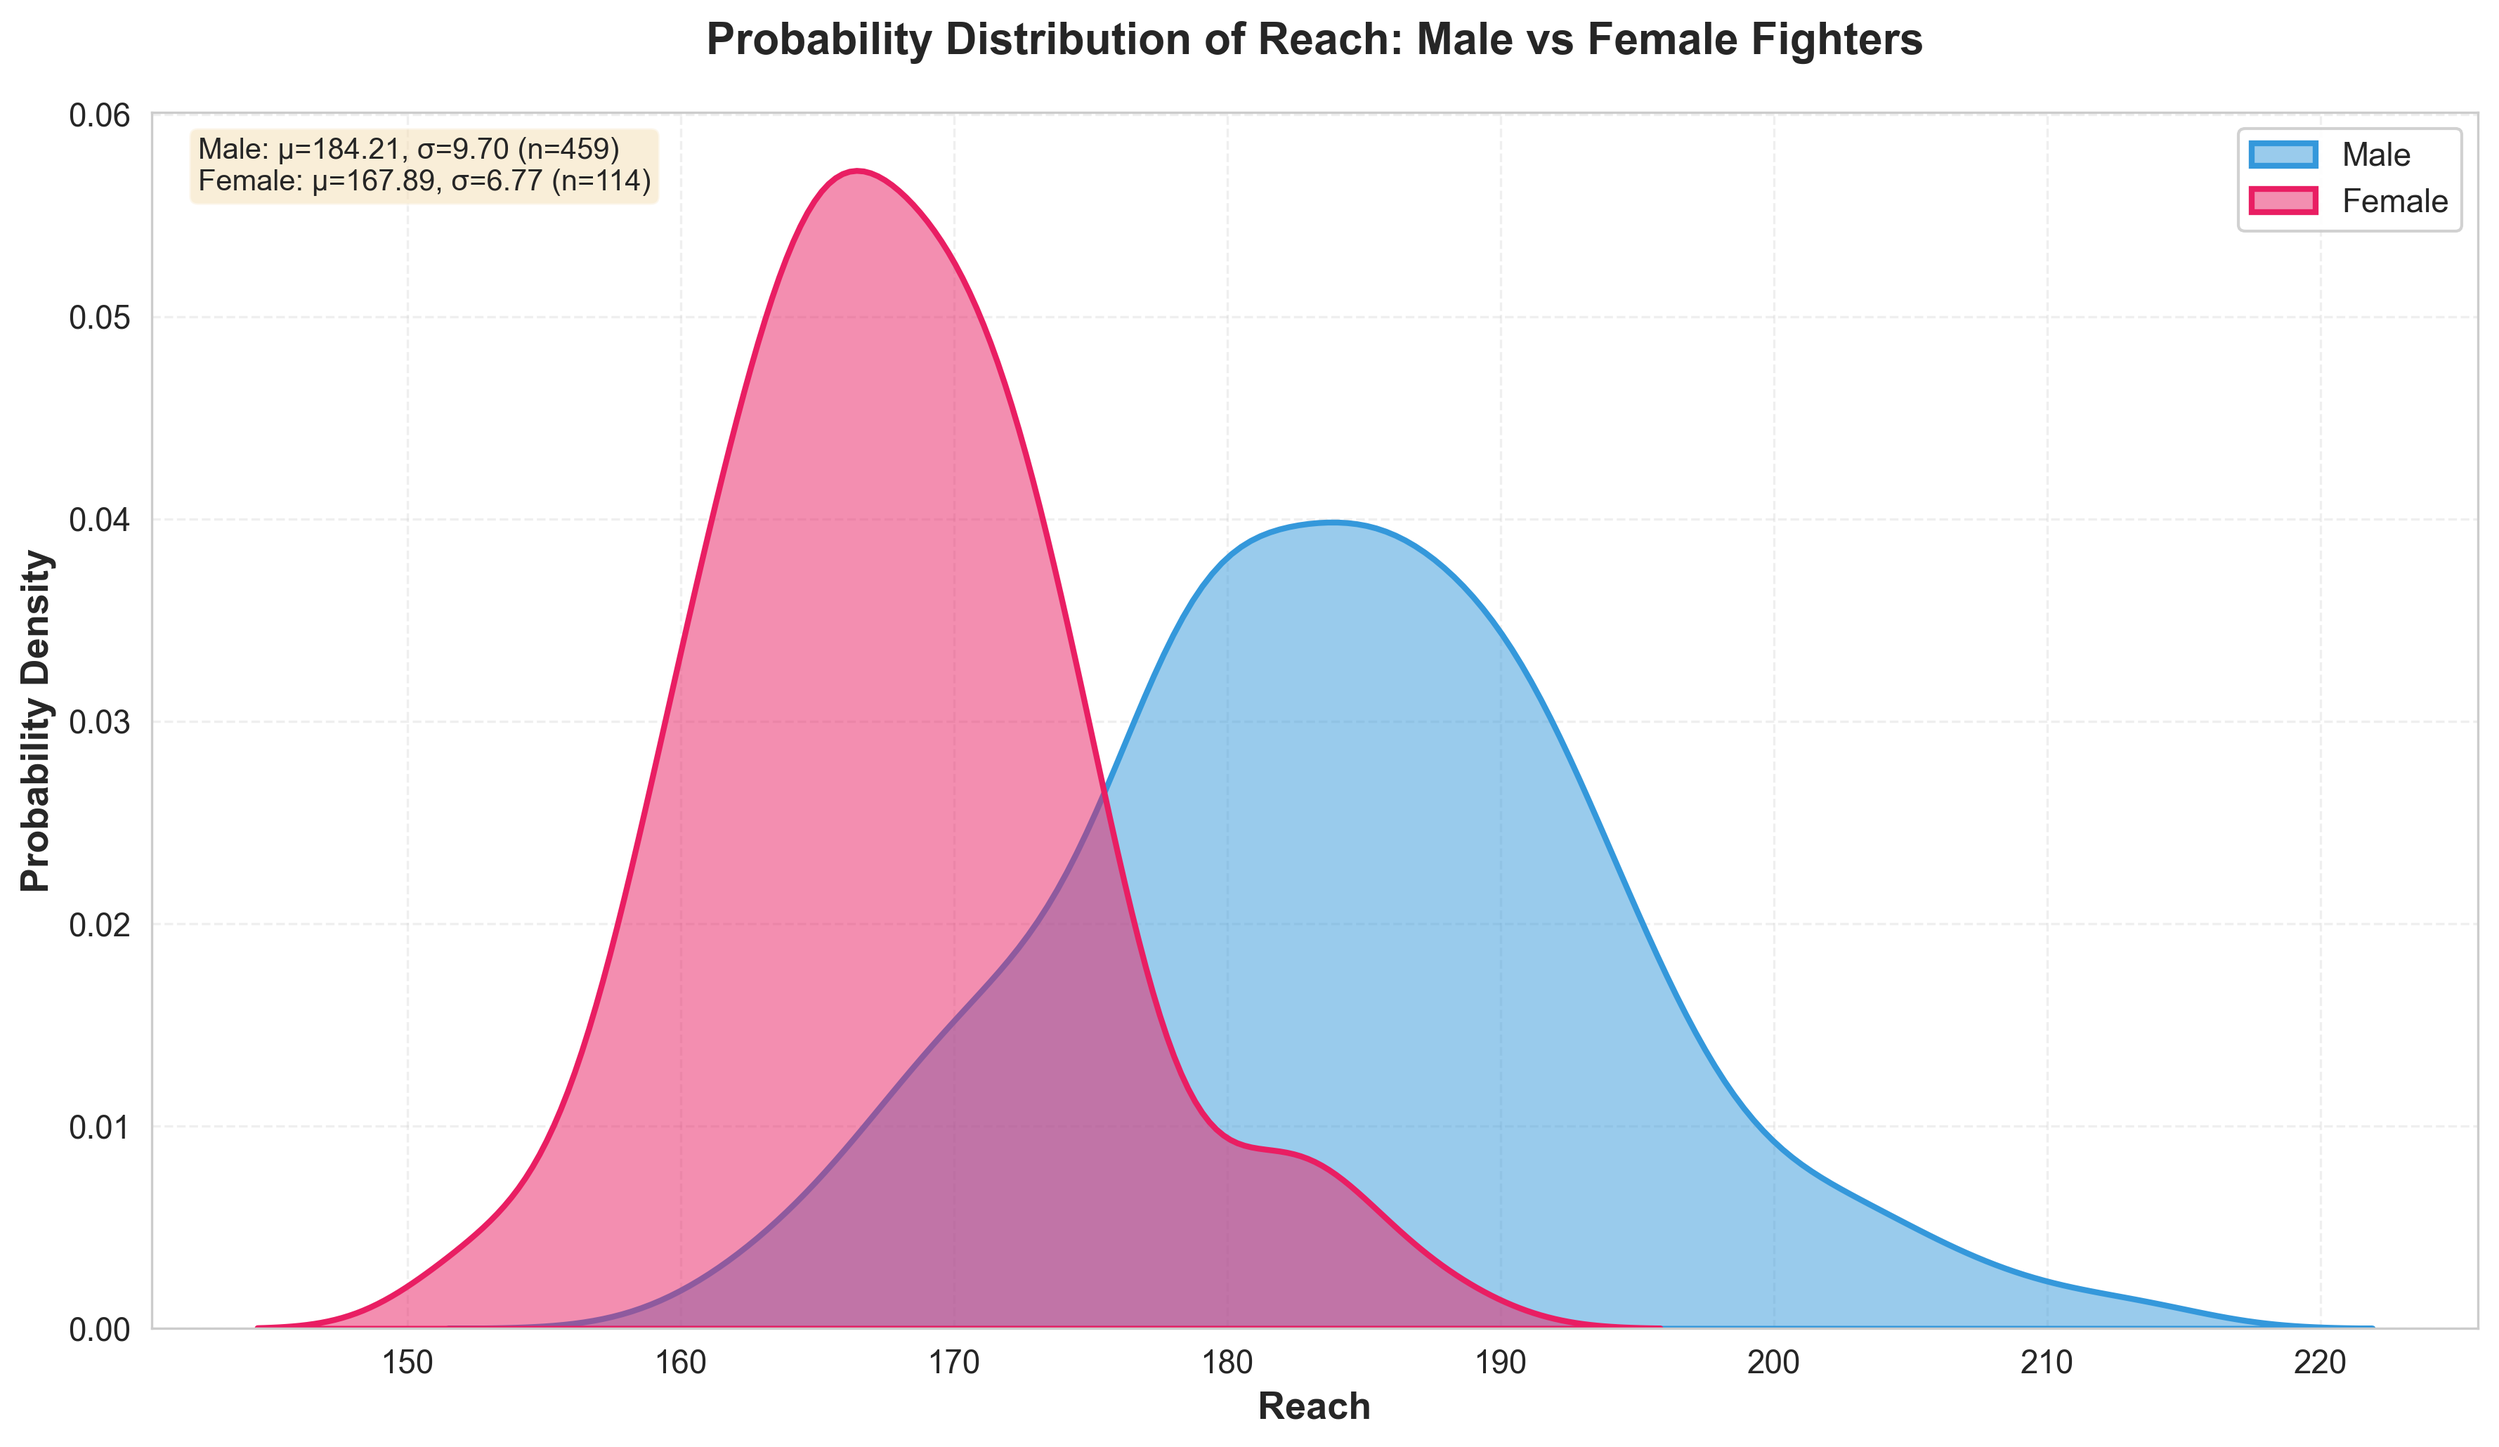
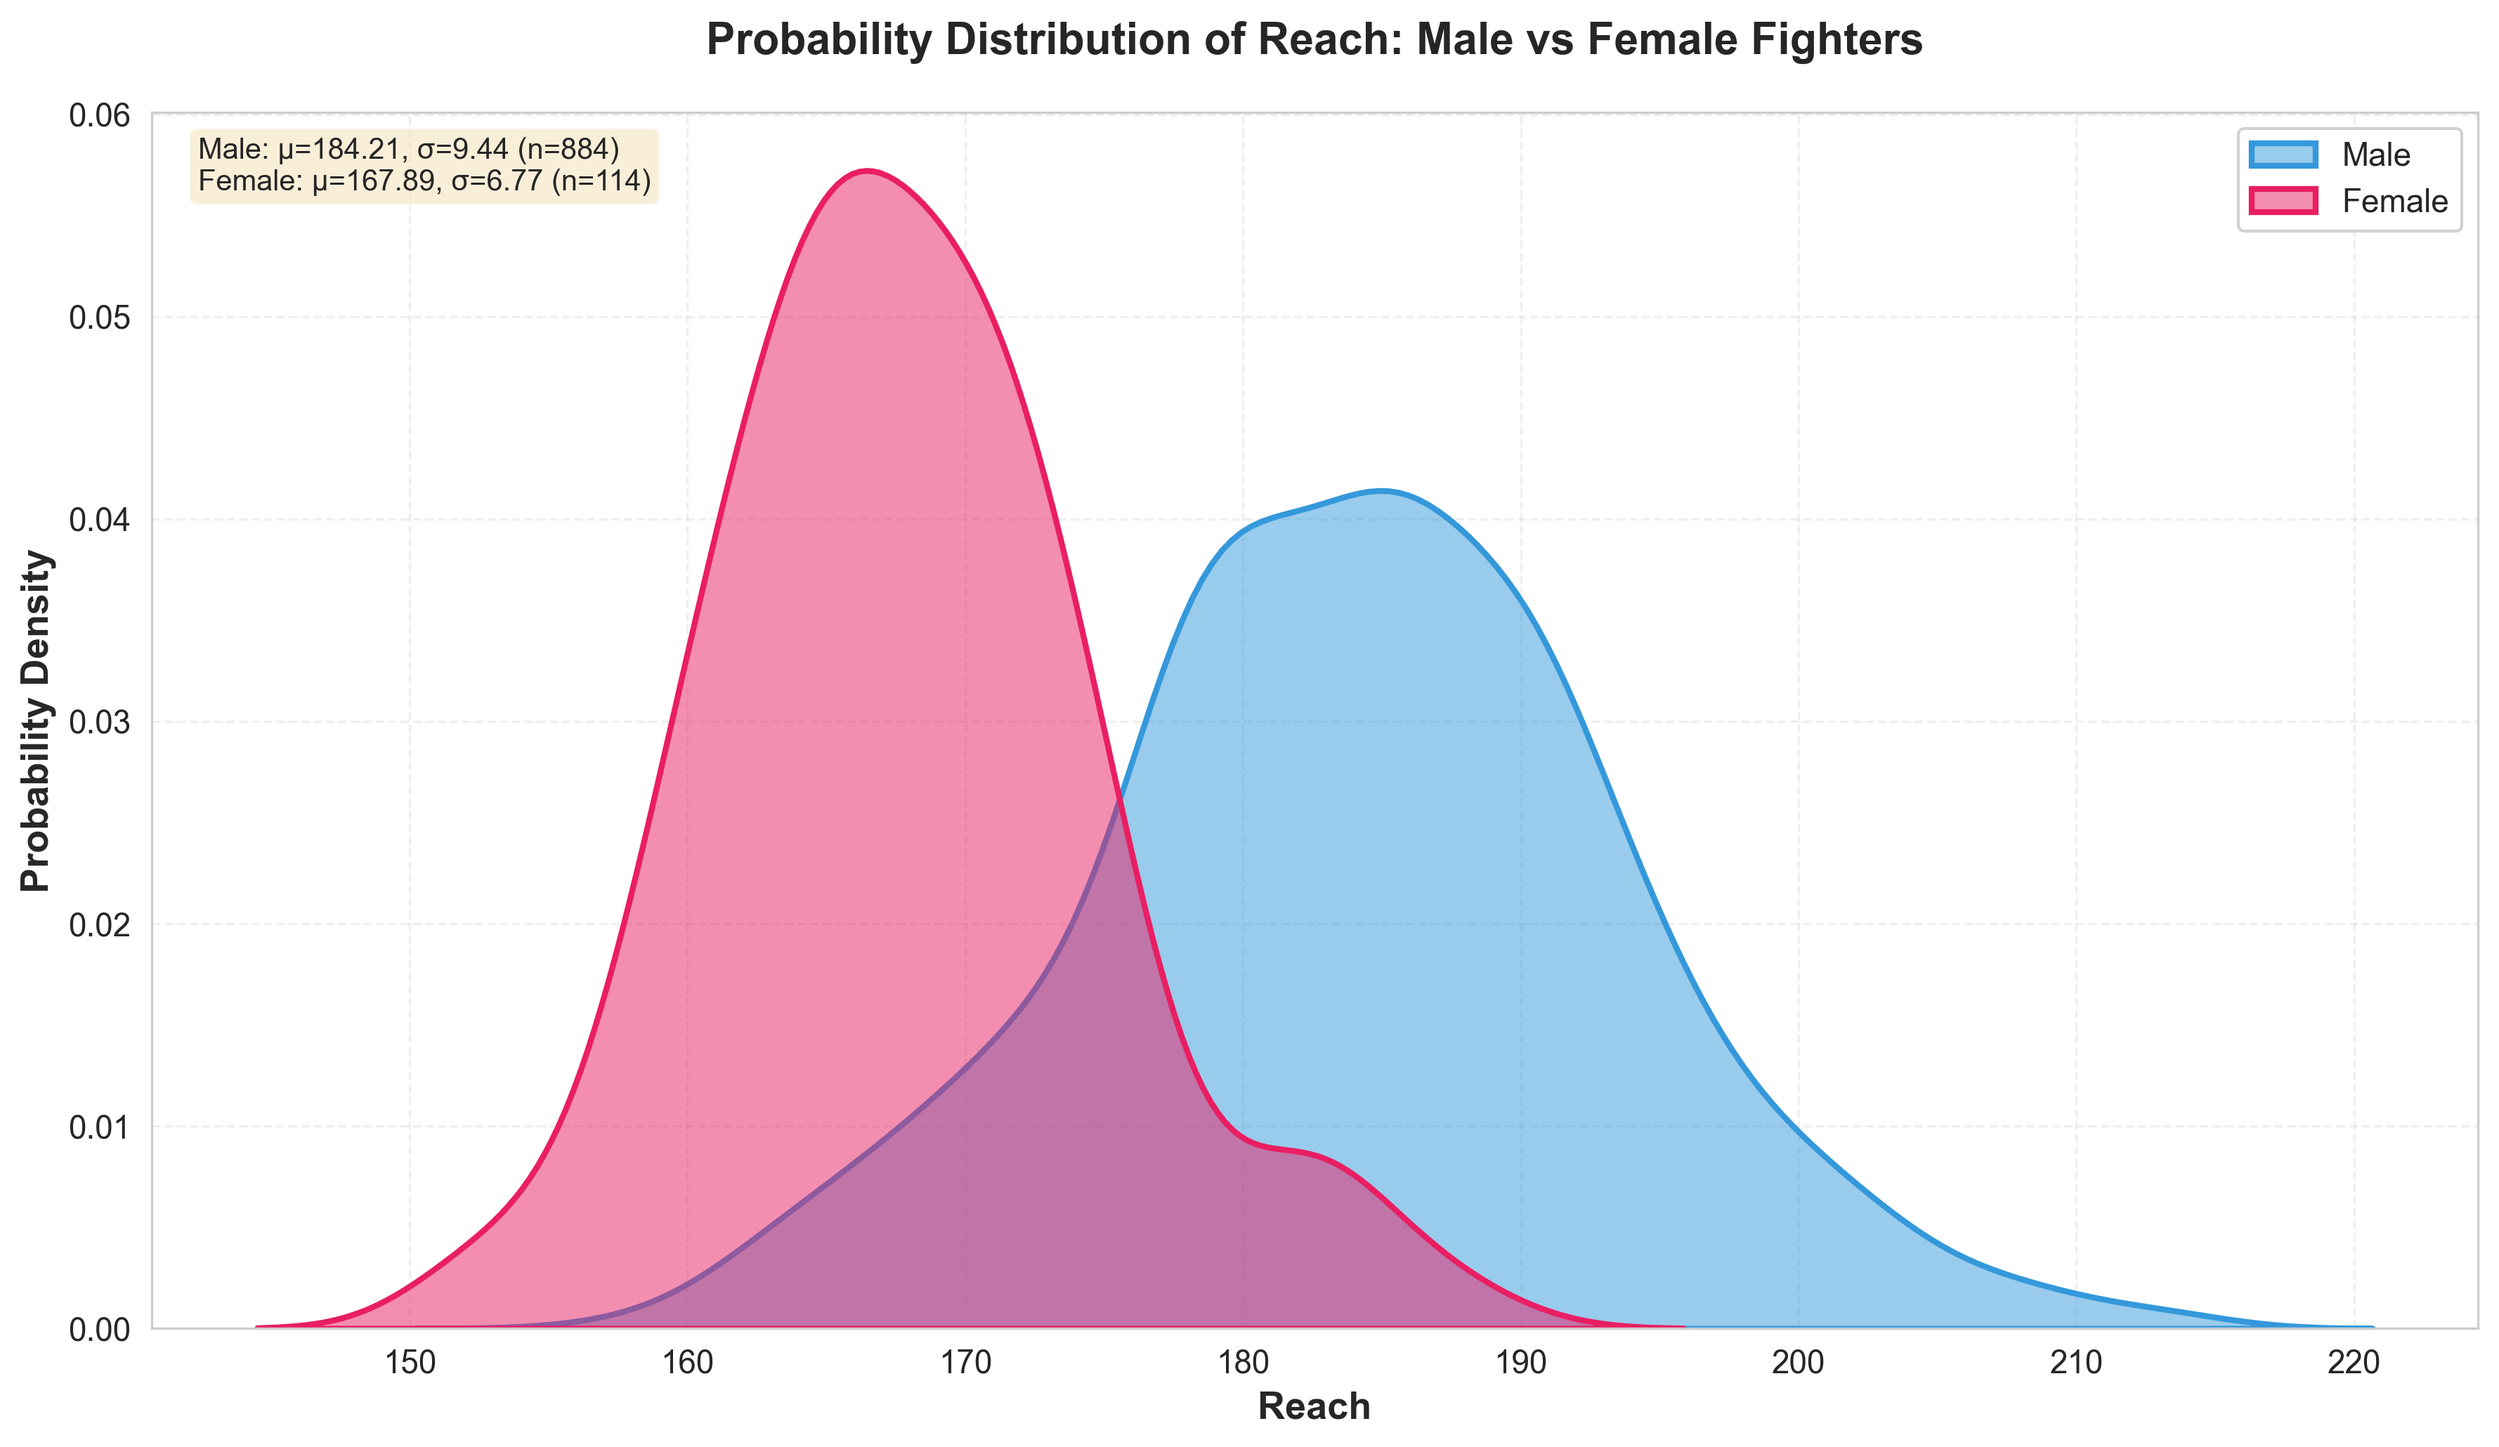
added more visualizations

diff --git a/visualizations.py b/visualizations.py
@@ -8,11 +8,13 @@ import matplotlib.pyplot as plt
 import seaborn as sns
 import numpy as np
 from pathlib import Path
+from sklearn.ensemble import RandomForestRegressor
+from sklearn.impute import SimpleImputer
 
 # Configuration
 DATA_FILE = Path("data/fighter_stats_with_gender.csv")
 PLOTS_DIR = Path("plots")
-MAX_FIGHTERS = 500  # Maximum number of fighters to include per gender (top by wins)
+MAX_FIGHTERS = 1000  # Maximum number of fighters to include per gender (top by wins)
 
 # Features to plot
 FEATURES = ['height', 'weight', 'reach', 'age']
@@ -109,6 +111,151 @@ def create_distribution_plot(male_df, female_df, feature, output_path):
     plt.savefig(output_path, dpi=300, bbox_inches='tight')
     print(f"Saved plot: {output_path}")
     plt.close()
+def get_numeric_features(df):
+    """
+    Get list of numeric feature columns (excluding name, gender, stance, and outcome variables wins/losses).
+    
+    Args:
+        df: DataFrame with fighter data
+        
+    Returns:
+        list: List of numeric feature column names
+    """
+    # Exclude non-numeric, outcome variables (wins, losses), and identifiers
+    exclude_cols = ['name', 'gender', 'stance', 'wins', 'losses']
+    numeric_features = [col for col in df.columns 
+                       if col not in exclude_cols and pd.api.types.is_numeric_dtype(df[col])]
+    return numeric_features
+
+
+def create_correlation_heatmap(df, gender, output_path):
+    """
+    Create a correlation matrix heatmap showing correlations between all features.
+    
+    Args:
+        df: DataFrame with fighter data (already filtered by gender)
+        gender: String 'Male' or 'Female' for title
+        output_path: Path to save the plot
+    """
+    numeric_features = get_numeric_features(df)
+    
+    # Create correlation matrix with wins
+    corr_data = df[numeric_features + ['wins']].copy()
+    
+    # Handle missing values
+    corr_data = corr_data.dropna()
+    
+    if len(corr_data) == 0:
+        print(f"Warning: Not enough data for {gender} correlation heatmap. Skipping...")
+        return
+    
+    # Calculate correlation matrix
+    corr_matrix = corr_data.corr()
+    
+    # Create figure
+    fig, ax = plt.subplots(figsize=(12, 10))
+    
+    # Create heatmap
+    mask = np.triu(np.ones_like(corr_matrix, dtype=bool), k=1)  # Mask upper triangle for cleaner look
+    sns.heatmap(corr_matrix, mask=mask, annot=True, fmt='.2f', cmap='coolwarm', 
+                center=0, square=True, linewidths=0.5, cbar_kws={"shrink": 0.8},
+                vmin=-1, vmax=1, ax=ax, annot_kws={'size': 8})
+    
+    # Customize plot
+    ax.set_title(f'Feature Correlation Matrix - {gender} Fighters', 
+                 fontsize=15, fontweight='bold', pad=20)
+    plt.xticks(rotation=45, ha='right', fontsize=10)
+    plt.yticks(rotation=0, fontsize=10)
+    
+    plt.tight_layout()
+    plt.savefig(output_path, dpi=300, bbox_inches='tight')
+    print(f"Saved plot: {output_path}")
+    plt.close()
+
+
+def create_feature_importance_plot(df, gender, output_path):
+    """
+    Create a feature importance plot using Random Forest regression.
+    
+    Args:
+        df: DataFrame with fighter data (already filtered by gender)
+        gender: String 'Male' or 'Female' for title
+        output_path: Path to save the plot
+    """
+    numeric_features = get_numeric_features(df)
+    
+    # Prepare data
+    X = df[numeric_features].copy()
+    y = df['wins'].copy()
+    
+    # Handle missing values
+    imputer = SimpleImputer(strategy='mean')
+    X_imputed = pd.DataFrame(imputer.fit_transform(X), columns=X.columns, index=X.index)
+    
+    # Remove rows where target is NaN
+    valid_mask = ~y.isna()
+    X_clean = X_imputed[valid_mask]
+    y_clean = y[valid_mask]
+    
+    if len(X_clean) == 0:
+        print(f"Warning: Not enough data for {gender} feature importance. Skipping...")
+        return
+    
+    # Train Random Forest
+    rf = RandomForestRegressor(n_estimators=100, random_state=42, max_depth=10)
+    rf.fit(X_clean, y_clean)
+    
+    # Get feature importances
+    importances = pd.Series(rf.feature_importances_, index=numeric_features)
+    importances = importances.sort_values(ascending=False)
+    
+    # Create figure
+    fig, ax = plt.subplots(figsize=(10, max(8, len(numeric_features) * 0.4)))
+    
+    # Create horizontal bar plot
+    colors = plt.cm.viridis(np.linspace(0, 1, len(importances)))
+    bars = ax.barh(range(len(importances)), importances.values, color=colors, alpha=0.8)
+    
+    # Customize plot
+    ax.set_yticks(range(len(importances)))
+    ax.set_yticklabels(importances.index, fontsize=11)
+    ax.set_xlabel('Feature Importance', fontsize=13, fontweight='bold')
+    ax.set_title(f'Feature Importance for Predicting Wins - {gender} Fighters\n(Random Forest Regression)', 
+                 fontsize=15, fontweight='bold', pad=20)
+    ax.grid(True, alpha=0.3, axis='x', linestyle='--')
+    
+    # Add importance values on bars
+    for i, (idx, val) in enumerate(importances.items()):
+        ax.text(val, i, f' {val:.3f}', va='center', fontsize=10, fontweight='bold')
+    
+    plt.tight_layout()
+    plt.savefig(output_path, dpi=300, bbox_inches='tight')
+    print(f"Saved plot: {output_path}")
+    plt.close()
+
+
+
+
+def create_feature_success_visualizations(male_df, female_df):
+    """
+    Create all feature success indicator visualizations (correlation, feature importance).
+    
+    Args:
+        male_df: DataFrame with male fighter data
+        female_df: DataFrame with female fighter data
+    """
+    print(f"\nCreating feature success indicator visualizations...")
+    print("-" * 60)
+    
+    # Correlation heatmaps
+    print("Creating correlation heatmaps...")
+    create_correlation_heatmap(male_df, 'Male', PLOTS_DIR / 'correlation_heatmap_male.png')
+    create_correlation_heatmap(female_df, 'Female', PLOTS_DIR / 'correlation_heatmap_female.png')
+    
+    # Feature importance plots
+    print("Creating feature importance plots...")
+    create_feature_importance_plot(male_df, 'Male', PLOTS_DIR / 'feature_importance_male.png')
+    create_feature_importance_plot(female_df, 'Female', PLOTS_DIR / 'feature_importance_female.png')
 
 
 def main():
@@ -136,6 +283,9 @@ def main():
     for feature in FEATURES:
         output_path = PLOTS_DIR / f"{feature}_distribution_gender_comparison.png"
         create_distribution_plot(male_df, female_df, feature, output_path)
+   
+    # Create feature success indicator visualizations
+    create_feature_success_visualizations(male_df, female_df)
     
     print("\n" + "=" * 60)
     print("All plots created successfully!")
